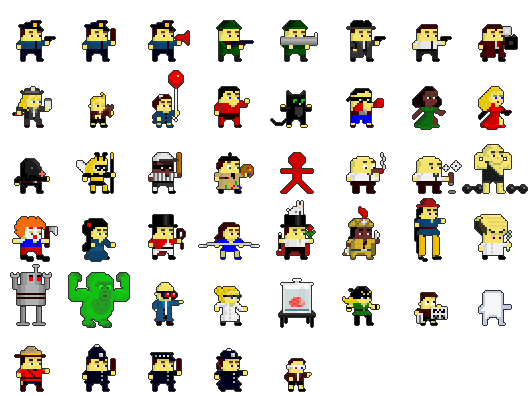
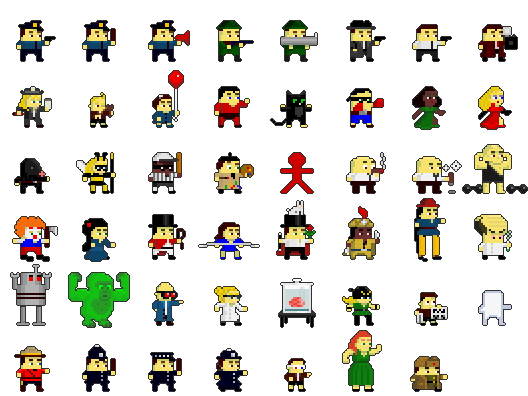
Added two new characters and fixed entity placement in the editor as well as image pre-processing.

Changed region(s): [[0.6364, 0.8182, 0.7273, 1.0], [0.7576, 0.8788, 0.8485, 1.0]]

diff --git a/lib/smash_and_grab/states/edit_level.rb b/lib/smash_and_grab/states/edit_level.rb
@@ -122,39 +122,9 @@ class EditLevel < World
 
     if holding? :left_mouse_button
       case @selector.tab
-        when :tiles
-          if @hover_tile
-            if @hover_tile.type != @selector.selected
-              @actions.do :set_tile_type, @hover_tile, @selector.selected
-            end
-          end
-
-        when :entities, :objects, :vehicles
-          klass = case @selector.tab
-                    when :entities then Objects::Entity
-                    when :objects then Objects::Static
-                    when :vehicles then Objects::Vehicle
-                  end
-
-          if @hover_tile
-            if @selector.selected == :erase
-              @actions.do :erase_object, @hover_tile unless @hover_tile.empty?
-            else
-              if @hover_tile.empty? or
-                  (@hover_tile.object and @hover_tile.object.type != @selector.selected)
-
-                @actions.do :place_object, @hover_tile, klass, @selector.selected
-              end
-            end
-          end
-
-        when :walls
-          if @hover_wall
-            if @hover_wall and @hover_wall.type != @selector.selected
-              @actions.do :set_wall_type, @hover_wall, @selector.selected
-            end
-          end
-
+        when :tiles                         then place_tile
+        when :entities, :objects, :vehicles then place_entity
+        when :walls                         then place_wall
         else
           raise @selector.tab
       end
@@ -162,6 +132,42 @@ class EditLevel < World
 
     @undo_button.enabled = @actions.can_undo?
     @redo_button.enabled = @actions.can_redo?
+  end
+
+  def place_wall
+    if @hover_wall
+      if @hover_wall and @hover_wall.type != @selector.selected
+        @actions.do :set_wall_type, @hover_wall, @selector.selected
+      end
+    end
+  end
+
+  def place_entity
+    klass = case @selector.tab
+              when :entities then Objects::Entity
+              when :objects then Objects::Static
+              when :vehicles then Objects::Vehicle
+            end
+
+    if @hover_tile
+      if @selector.selected == :erase
+        @actions.do :erase_object, @hover_tile unless @hover_tile.empty?
+      else
+        if @hover_tile.empty? or
+            (@hover_tile.object and @hover_tile.object.type != @selector.selected)
+
+          @actions.do :place_object, @hover_tile, klass, @selector.selected
+        end
+      end
+    end
+  end
+
+  def place_tile
+    if @hover_tile
+      if @hover_tile.type != @selector.selected
+        @actions.do :set_tile_type, @hover_tile, @selector.selected
+      end
+    end
   end
 
   def draw

diff --git a/lib/smash_and_grab/history/editor_actions/place_object.rb b/lib/smash_and_grab/history/editor_actions/place_object.rb
@@ -14,10 +14,12 @@ class PlaceObject < EditorAction
       @tile.map.remove @old_object
     end
 
+    initial_faction = @tile.map.factions[States::EditLevel::FACTIONS.index @object_class.config[@type][:faction]]
     @new_object = @object_class.new @tile.map,
                                  type: @type,
                                  tile: @tile.grid_position,
-                                 facing: :right
+                                 facing: :right,
+                                 faction: initial_faction
   end
 
   def undo

diff --git a/tasks/create_portraits.rb b/tasks/create_portraits.rb
@@ -6,9 +6,9 @@ PORTRAIT_IMAGES = [
 desc "Process images (cut out a portrait of each character)"
 task create_portraits: :outline_images do
   require 'texplay'
-  require_relative '../lib/texplay_ext/color'
-  require_relative '../lib/texplay_ext/image'
-  require_relative '../lib/texplay_ext/window'
+  require_relative '../lib/smash_and_grab/texplay_ext/color'
+  require_relative '../lib/smash_and_grab/texplay_ext/image'
+  require_relative '../lib/smash_and_grab/texplay_ext/window'
 
   puts "=== Creating portraits ===\n\n"
 

diff --git a/tasks/outline_images.rb b/tasks/outline_images.rb
@@ -10,9 +10,9 @@ IMAGES = [
 desc "Process images (double in size and add an outline)"
 task :outline_images do
   require 'texplay'
-  require_relative '../lib/texplay_ext/color'
-  require_relative '../lib/texplay_ext/image'
-  require_relative '../lib/texplay_ext/window'
+  require_relative '../lib/smash_and_grab/texplay_ext/color'
+  require_relative '../lib/smash_and_grab/texplay_ext/image'
+  require_relative '../lib/smash_and_grab/texplay_ext/window'
 
   puts "=== Processing images ===\n\n"
 

diff --git a/lib/smash_and_grab/objects/entity.rb b/lib/smash_and_grab/objects/entity.rb
@@ -110,7 +110,7 @@ class Entity < WorldObject
     config = self.class.config[data[:type]]
 
     @default_faction_type = config[:faction]
-    @faction = nil
+    @faction = data[:faction] # Probably not set though; will use @default_faction_type later to set it.
 
     options = {
         image: self.class.sprites[*config[:spritesheet_position]],
